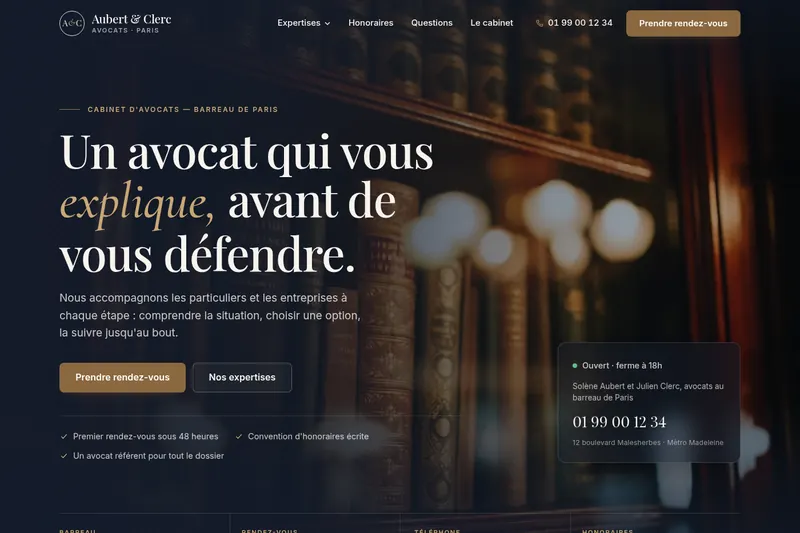
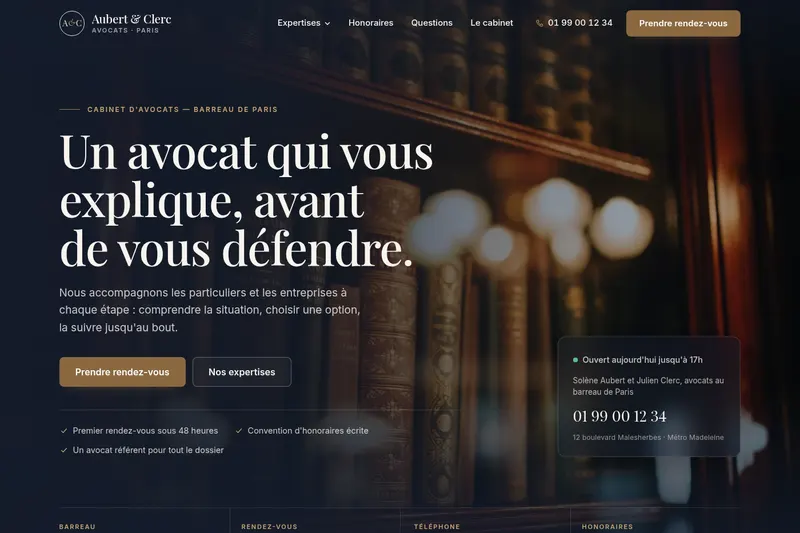
Démo avocat : le titre du hero n'a plus de mot en italique et en laiton (« explique, »), phrase d'un seul tenant ; aperçus recapturés (accueil, menu Exemples, partage).

diff --git a/src/templates/vitrine/sites/avocat/home.html b/src/templates/vitrine/sites/avocat/home.html
@@ -36,7 +36,7 @@
             {% endif %}
             <p class="hero__surtitre" style="--i: 0">{{ site.eyebrow }}</p>
             <h1 class="hero__titre" id="hero-titre" style="--i: 1">
-                {{ site.hero_titre.avant }} <em>{{ site.hero_titre.accent }}</em> {{ site.hero_titre.apres }}
+                {{ site.hero_title }}
             </h1>
             <p class="hero__chapo" style="--i: 2">{{ site.accroche|fr_typo }}</p>
             <div class="hero__actions" style="--i: 3">

diff --git a/src/static/vitrine/avocat/css/sections/_hero.css b/src/static/vitrine/avocat/css/sections/_hero.css
@@ -56,14 +56,6 @@
   letter-spacing: -0.02em;
   color: var(--ivoire);
 }
-.hero__titre em {
-  font-family: var(--f-note);
-  font-style: italic;
-  font-weight: 500;
-  font-size: 1.1em;
-  letter-spacing: -0.005em;
-  color: var(--laiton-clair);
-}
 .hero__chapo { max-width: 34rem; font-size: var(--t-lg); line-height: 1.6; color: rgba(247, 244, 238, 0.8); }
 .hero__actions { display: flex; flex-wrap: wrap; gap: 0.75rem; margin-top: 2.25rem; }
 .hero__engagements {

diff --git a/src/vitrines/sites/avocat.py b/src/vitrines/sites/avocat.py
@@ -20,8 +20,6 @@ AVOCAT = _site(
     description="Cabinet d'avocats fictif à Paris. Droit de la famille, du travail, immobilier, des affaires et pénal. Honoraires annoncés par écrit. Démonstration de site vitrine.",
     hero_variant="split",
     hero_title="Un avocat qui vous explique, avant de vous défendre.",
-    # Le titre du hero, en trois morceaux : le mot du milieu est mis en valeur (italique, laiton).
-    hero_titre=_ns(avant="Un avocat qui vous", accent="explique,", apres="avant de vous défendre."),
     accroche="Nous accompagnons les particuliers et les entreprises à chaque étape : comprendre la situation, choisir une option, la suivre jusqu'au bout.",
     presentation=(
         "Solène Aubert et Julien Clerc exercent ensemble à Paris depuis 2014. "
